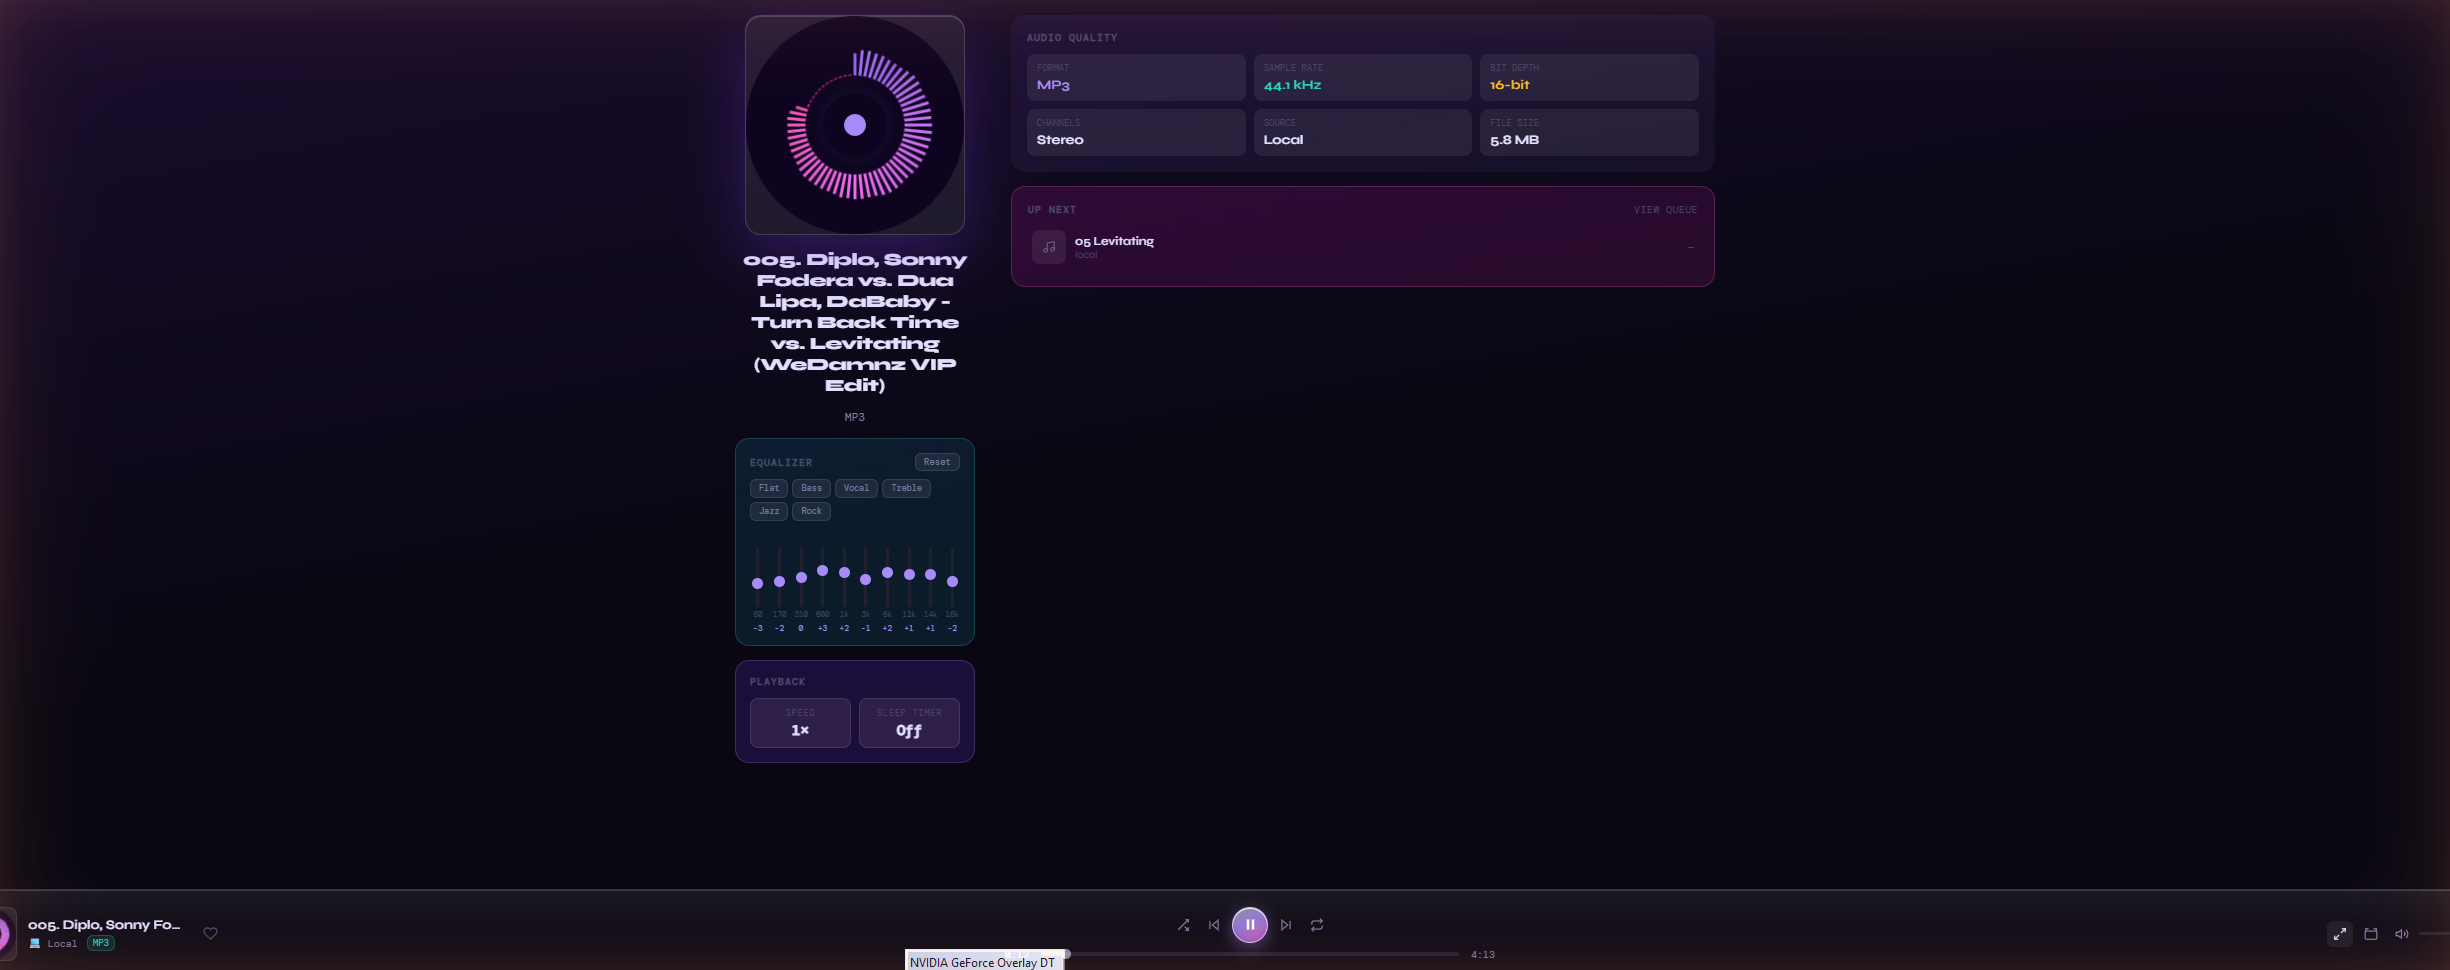
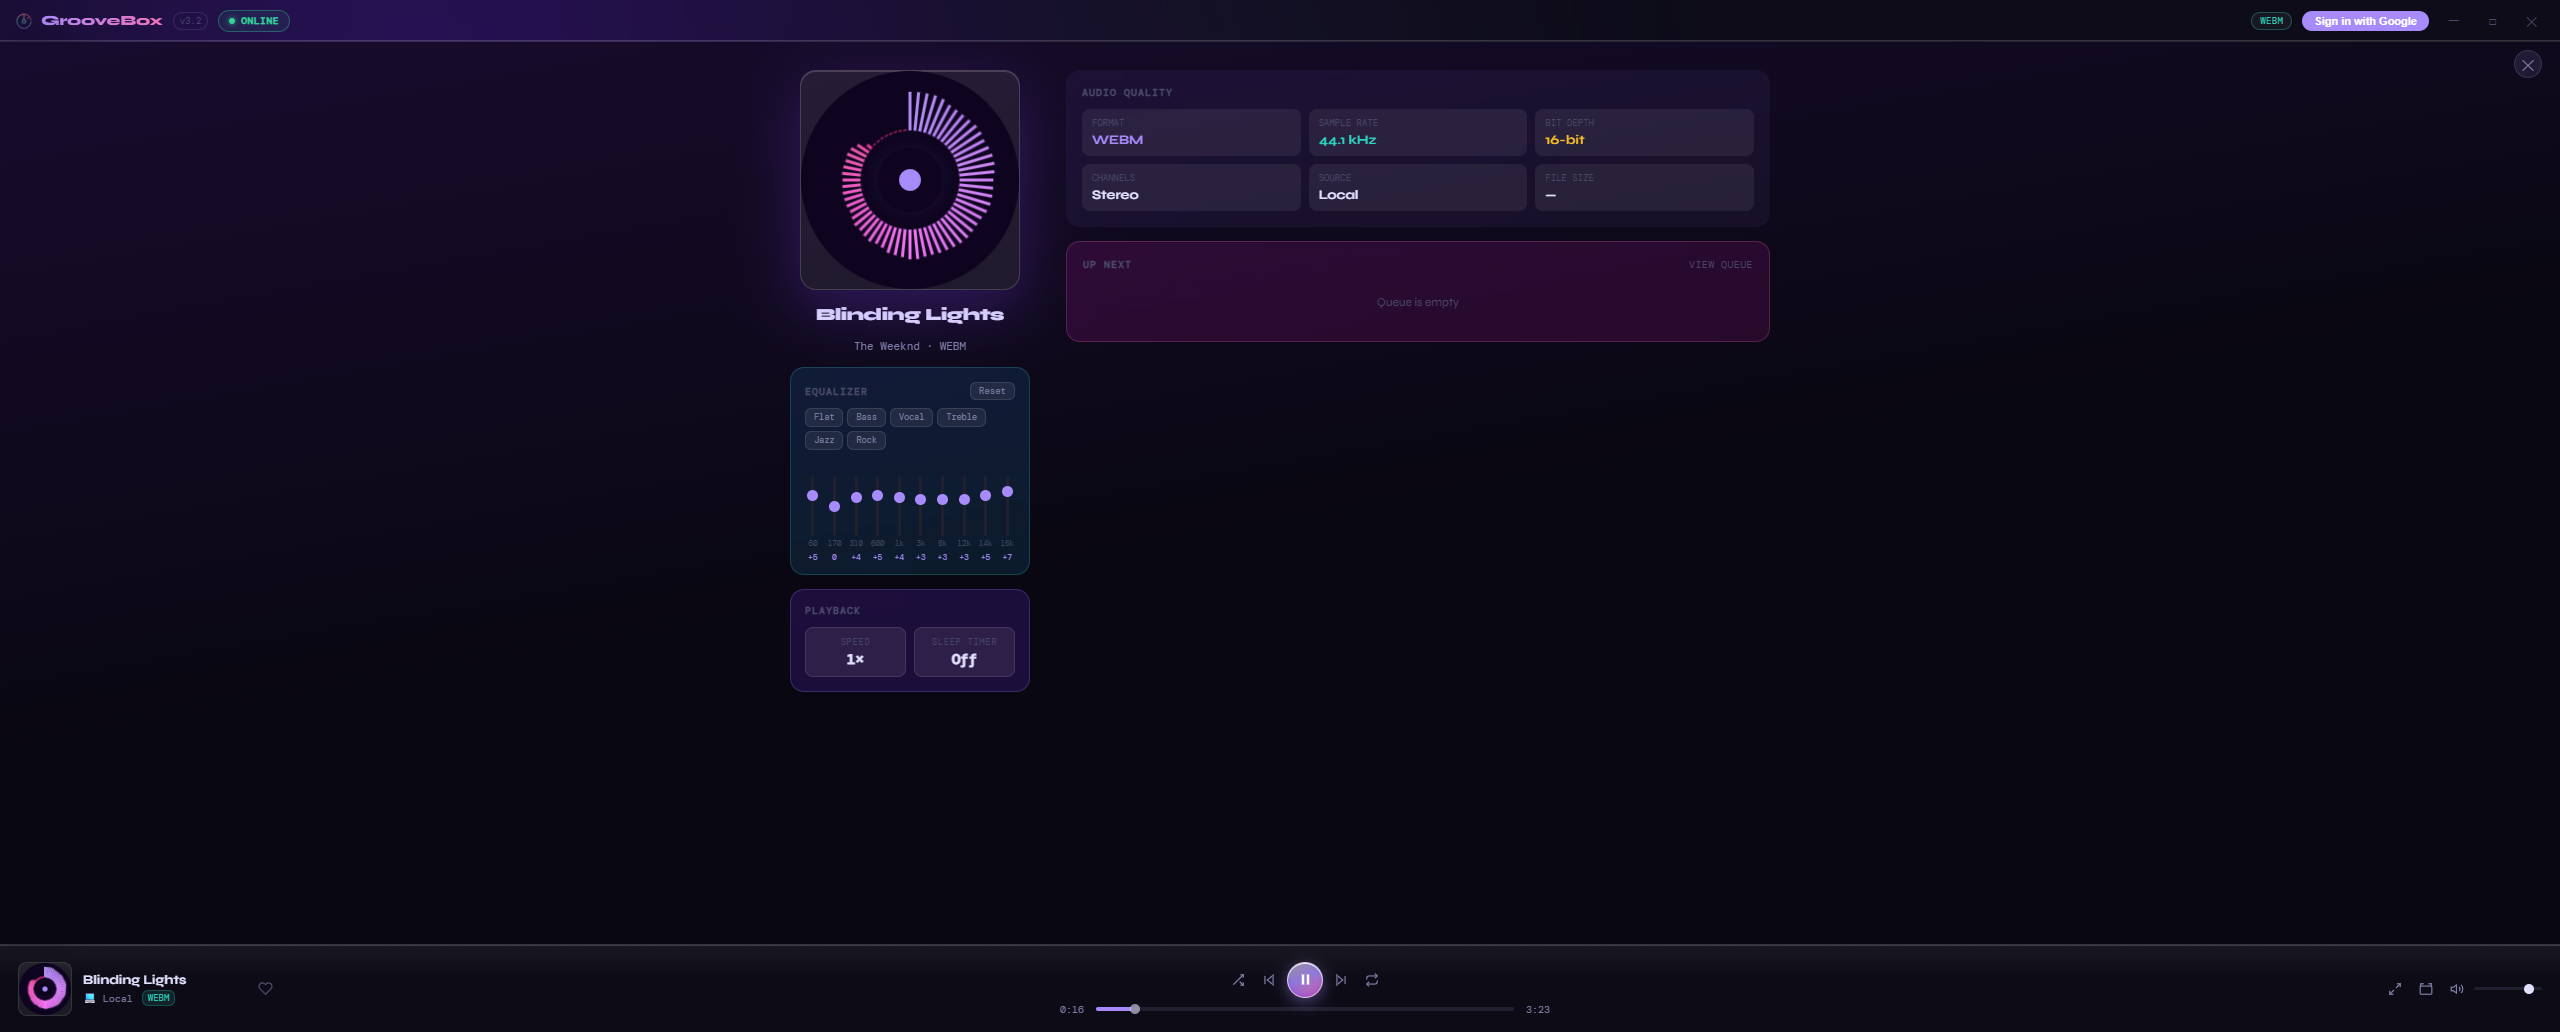
Add real screenshots and GIF for the playlist cover art feature
Screenshots captured live: the sidebar showing a custom playlist
cover, all tracks in that playlist falling back to it when they have
no art of their own, the mini player reflecting the same fallback,
Online mode, a Spotify+YouTube Discover search, and a track streaming
live from that match in the full player.

diff --git a/README.md b/README.md
@@ -37,9 +37,11 @@ GrooveBox is a free, open-source desktop music player that plays your local file
 | | |
 |---|---|
 | ![First-run setup](docs/screenshot-onboarding.png) | ![Library](docs/screenshot-home.png) |
-| ![Spotify + YouTube search](docs/screenshot-search.png) | ![Full player with EQ and visualizer](docs/screenshot-player.png) |
-| ![Playing Next / History queue](docs/screenshot-queue.png) | ![Playlist](docs/screenshot-playlist.png) |
-| ![Top Ranked / Liked](docs/screenshot-topranked.png) | ![Always-on-top mini player](docs/screenshot-miniplayer.png) |
+| ![Spotify + YouTube search](docs/screenshot-search.png) | ![Full player streaming a Spotify+YouTube match](docs/screenshot-player.png) |
+| ![Playing Next / History queue](docs/screenshot-queue.png) | ![Liked songs](docs/screenshot-liked.png) |
+| ![Top Ranked](docs/screenshot-topranked.png) | ![Always-on-top mini player](docs/screenshot-miniplayer.png) |
+| ![Custom playlist cover in the sidebar](docs/screenshot-sidebar-cover.png) | ![Tracks without their own art falling back to the playlist cover](docs/screenshot-playlist-fallback.png) |
+| ![Mini player showing the playlist cover fallback](docs/screenshot-miniplayer-cover.png) | ![Online mode toggle](docs/screenshot-online.png) |
 
 ## Getting your own API keys
 
